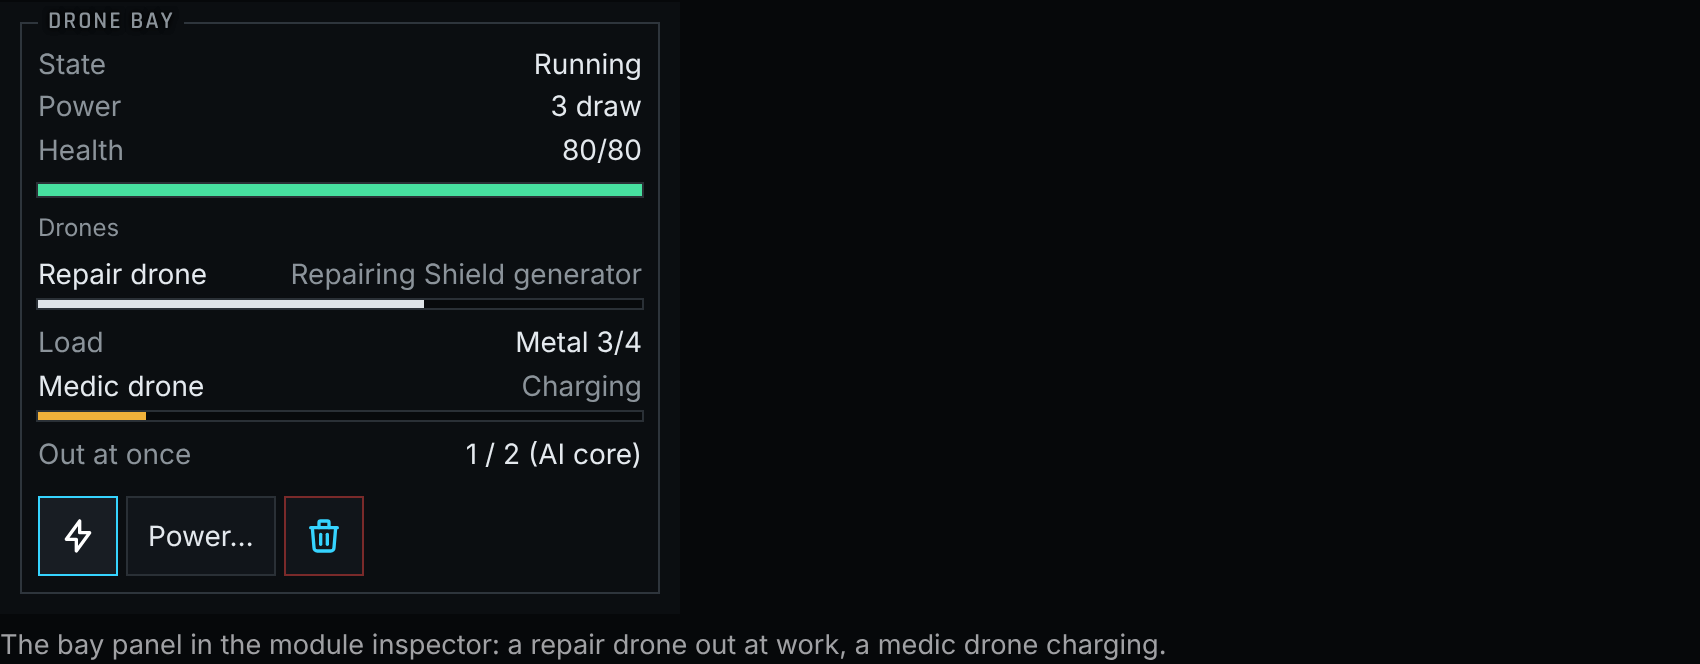
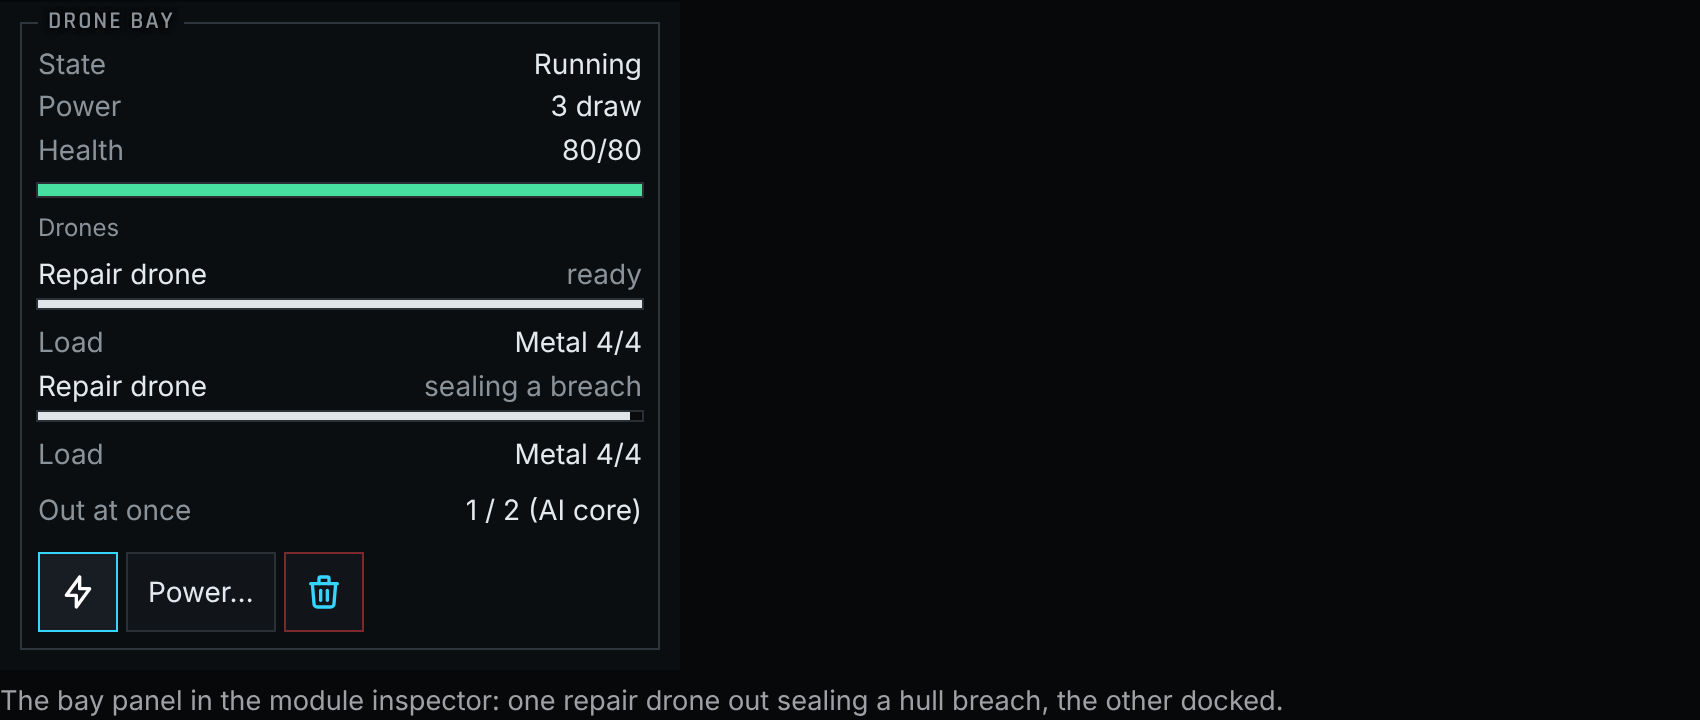
Wiki: live panels take their data from headless games (panel recipes run the game's own scenario commands and snapshot functions at build time)
Refs #446

diff --git a/wiki/scripts/panel-recipes.ts b/wiki/scripts/panel-recipes.ts
@@ -1,0 +1,32 @@
+// Live panels for the guides (<GamePanel>): each recipe starts a real game headless, sets a scene up with the game's own
+// debug-scenario commands, runs it a few seconds and keeps what a UI panel would be handed, built by the game's own
+// snapshot functions (src/app/*Snapshot.ts). The wiki build saves the results (capture-panels.ts); pages read them through
+// src/lib/panels.ts, typed by these functions' return types, so a changed panel shape fails the check.
+// Runs in Node at build time only: nothing here reaches the browser.
+import { content } from '../../src/content/index.ts';
+import { newGame, type Sim } from '../../src/sim/index.ts';
+import { droneScenarioCommands } from '../../src/app/droneScenario.ts';
+import { buildModuleList } from '../../src/app/moduleSnapshot.ts';
+
+/** A seeded new game, run `warm` seconds, then `commands`, then `secs` more. */
+function scene(seed: number, commands: (sim: Sim) => Parameters<Sim['enqueue']>[0][], secs: number, warm = 1): Sim {
+  const sim = newGame(seed, content);
+  const step = (s: number) => { for (let i = 0; i < s * 20; i++) { sim.step(); sim.events.drain(); } };
+  step(warm);
+  for (const c of commands(sim)) sim.enqueue(c);
+  step(secs);
+  return sim;
+}
+
+function must<T>(value: T | undefined | null, what: string): T {
+  if (value == null) throw Error('Panel recipe found no ' + what);
+  return value;
+}
+
+export const panels = {
+  /** The module inspector on a drone bay: one repair drone out sealing a hull breach, one docked. */
+  droneBay: () => {
+    const sim = scene(7, (s) => droneScenarioCommands(s, false, true), 4);
+    return must(buildModuleList(sim).find((m) => m.def === 'module.droneBay'), 'drone bay');
+  },
+};

diff --git a/wiki/scripts/capture-panels.ts b/wiki/scripts/capture-panels.ts
@@ -1,0 +1,12 @@
+// Runs every recipe in panel-recipes.ts and saves the panel data the guides show (src/data/generated/panels.json).
+import { mkdir, writeFile } from 'node:fs/promises';
+import { join } from 'node:path';
+import { fileURLToPath } from 'node:url';
+import { panels } from './panel-recipes.ts';
+
+const out = fileURLToPath(new URL('../src/data/generated/', import.meta.url));
+const t = Date.now();
+const data = Object.fromEntries(Object.entries(panels).map(([name, recipe]) => [name, recipe()]));
+await mkdir(out, { recursive: true });
+await writeFile(join(out, 'panels.json'), JSON.stringify(data, null, 2) + '\n');
+console.log(`Live panels: ${Object.keys(data).length} from headless games (${Date.now() - t} ms)`);

diff --git a/wiki/src/lib/panels.ts b/wiki/src/lib/panels.ts
@@ -1,0 +1,10 @@
+import data from '../data/generated/panels.json';
+import type { panels } from '../../scripts/panel-recipes';
+import type { UiApi } from '../../../src/ui/api';
+
+// Panel data from real headless games (scripts/panel-recipes.ts), typed by the game's own snapshot functions.
+export type Panels = { [K in keyof typeof panels]: ReturnType<(typeof panels)[K]> };
+export const panel = data as unknown as Panels;
+
+// Panels with buttons get an api that only takes clicks: in the wiki they do nothing.
+export const inertApi = { dispatch: () => {}, selectModule: () => {} } as unknown as UiApi;

diff --git a/wiki/src/routes/mechanics/drones/+page.md b/wiki/src/routes/mechanics/drones/+page.md
@@ -9,7 +9,7 @@ order: 5
   import ComingLater from '../../../lib/ComingLater.svelte'
   import GamePanel from '../../../lib/GamePanel.svelte'
   import ModuleOverview from '../../../../../src/ui/module/ModuleOverview.svelte'
-  import { droneBay, inertApi } from '../../../lib/samples/droneBay'
+  import { panel, inertApi } from '../../../lib/panels'
 </script>
 
 Drones are small flying machines that work for the ship on their own. You give them no orders: they pick their own
@@ -42,8 +42,8 @@ Research stations sometimes sell finished drones. A destroyed drone leaves a lit
 
 A drone bay has two pads. Select it to open the bay panel:
 
-<GamePanel title="Drone bay" width="340px" caption="The bay panel in the module inspector: a repair drone out at work, a medic drone charging.">
-  <ModuleOverview api={inertApi} m={droneBay} ftl={null} onPower={() => {}} />
+<GamePanel title="Drone bay" width="340px" caption="The bay panel in the module inspector: one repair drone out sealing a hull breach, the other docked.">
+  <ModuleOverview api={inertApi} m={panel.droneBay} ftl={null} onPower={() => {}} />
 </GamePanel>
 
 - Each drone's name and what it is doing, with a charge meter.

diff --git a/wiki/README.md b/wiki/README.md
@@ -46,6 +46,16 @@ content types, so a renamed field fails the check instead of printing "undefined
 Hand-written guides live in `src/routes/guides/` and `src/routes/mechanics/`. Mark behaviour that is planned but not
 built with `<ComingLater>`.
 
+## Live panels
+
+Guides show real game UI components with `<GamePanel>` instead of screenshots wherever the thing shown is a panel or card
+(not the game world). Their data comes from real games: each recipe in `scripts/panel-recipes.ts` starts a seeded game
+headless in Node, sets a scene up with the game's debug-scenario commands, runs a few seconds and keeps what the game's
+own snapshot functions (`src/app/*Snapshot.ts`) hand the panel. `npm run generate` saves the results to
+`src/data/generated/panels.json`; pages read them through `src/lib/panels.ts`, typed by the recipes' return types, so a
+changed panel fails the check. No sim code reaches the browser. The game's theme is scoped to `.game-ui`
+(`scripts/game-ui-css.ts`) so it can't touch the wiki's own styles.
+
 ## Guide screenshots
 
 `npm run capture` starts the game's dev server, runs every recipe in `scripts/guide-shots.mjs` in headless Chromium and
